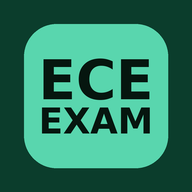
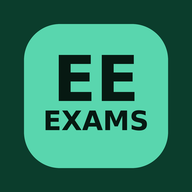
Add files via upload

diff --git a/index.html b/index.html
@@ -2,10 +2,10 @@
 <html lang="en"><head><meta http-equiv="Content-Type" content="text/html; charset=UTF-8">
 
 <meta name="viewport" content="width=device-width, initial-scale=1, viewport-fit=cover">
-<title>ECE Exam</title>
+<title>EE Exams</title>
 <link rel="manifest" href="manifest.webmanifest">
-<link rel="icon" type="image/png" href="icon-192.png?v=2">
-<link rel="apple-touch-icon" href="icon-192.png?v=2">
+<link rel="icon" type="image/png" href="icon-192.png?v=3">
+<link rel="apple-touch-icon" href="icon-192.png?v=3">
 <meta name="theme-color" content="#0b2e2a">
 <meta name="apple-mobile-web-app-capable" content="yes">
 <meta name="mobile-web-app-capable" content="yes">
@@ -174,12 +174,12 @@ input,select,textarea{font-size:16px}
 <body>
 <div id="pendBar" hidden><span id="pendTx"></span><b id="pendGo"></b></div>
 <header class="bar"><div class="wrap">
-    <div class="ttl"><img class="logo" src="icon-192.png?v=2" alt="ECE Exam" width="48" height="48" onerror="this.hidden=true"><h1>Duty Lookup</h1><span id="st" class="st"></span></div>
+    <div class="ttl"><img class="logo" src="icon-192.png?v=3" alt="EE Exams" width="48" height="48" onerror="this.hidden=true"><h1>Duty Lookup</h1><span id="st" class="st"></span></div>
     <p class="sub">Examination duty roster and swap coordination</p>
     <div class="btns">
       <button class="b1" id="bBoard"><span class="lg">📋 See Posted Swaps<br><small>Requests from other staff</small></span><span class="sm">📋<br>Posted</span></button>
       <button class="b2" id="bSwap"><span class="lg">🔄 Swap My Duty<br><small>Post a swap request</small></span><span class="sm">🔄<br>Swap Duty</span></button>
-      <button class="b1" id="bStandby"><span class="lg">🆘 Request Standby Invigilator<br><small>Ask Mr. Sharoze (DEC Member)</small></span><span class="sm">🆘<br>Standby</span></button>
+      <button class="b1" id="bStandby"><span class="lg">🆘 Request Standby Invigilator<br><small>Ask Mr. Sharoze Sohail (DEC Member)</small></span><span class="sm">🆘<br>Standby</span></button>
       <button class="b1" id="bInst" hidden>Install app</button>
     </div>
 </div></header>
@@ -208,6 +208,7 @@ input,select,textarea{font-size:16px}
     <textarea id="csv" class="csv" style="width:100%;margin-top:8px;background:var(--in);color:var(--tx);border:1px solid var(--bd);border-radius:9px;padding:8px" placeholder="…or paste CSV here"></textarea>
     <div class="btns" style="margin-top:8px"><button class="b2" id="load">Load data</button><button class="x" id="sample">Load sample</button><button class="x" id="clear">Clear all</button></div>
     <p id="msg"></p>
+    <div class="btns" style="margin-top:4px"><button class="b2" id="bSbAdm">🆘 Standby requests</button></div>
     <div style="border-top:1px solid var(--bd);padding-top:10px;margin-top:6px"><b>Admin WhatsApp number</b> <small>(swap approval requests go here)</small>
     <div class="btns" style="margin-top:6px"><input id="admPh" type="tel" placeholder="923001234567" style="flex:1;min-width:160px;min-height:42px;padding:8px 10px;border-radius:8px;border:1px solid var(--bd);background:var(--in);color:var(--tx)"><button class="b2" id="admSave">Save number</button></div><p id="admMsg"></p></div>
   </section>
@@ -229,6 +230,7 @@ S4,Hina Malik,923001110004,2026-10-16,09:00,12:00,Biochemistry,Hall A,Invigilato
 const ld=k=>{try{return JSON.parse(localStorage.getItem(k))||[]}catch(e){return[]}};
 const sv=(k,v)=>{try{localStorage.setItem(k,JSON.stringify(v))}catch(e){}};
 let data=ld('duty2'),swaps=ld('swaps2'),isAdmin=false;
+let standbys=[];
 const key=r=>r.id||r.name, slot=r=>r.start+'–'+r.end;
 const pd=d=>{d=String(d||'').trim();let m;
   if(m=d.match(/^(\d{4})[-\/.](\d{1,2})[-\/.](\d{1,2})/))return new Date(+m[1],m[2]-1,+m[3]);
@@ -306,23 +308,38 @@ function needData(){if(!data.length){open('<h2>No data yet</h2><p>Duty data has 
 function post(i,note,quiet){const r=data[i];
   const s={id:Date.now(),k:key(r),name:r.name,phone:r.phone||'',date:r.date,start:r.start,end:r.end,exam:r.exam,venue:r.venue,note:note||'',approved:false};
   swaps.unshift(s);sv('swaps2',swaps);if(!quiet)board();cloud('swaps/'+s.id,s)}
-const SHAROZE_PHONE='';
-const standbyMsg=(me,r)=>`Hi Sharoze, this is ${nt(me)}. I need a standby invigilator for my exam duty on ${fmt(r.date)}, ${slot(r)} (${r.exam}, ${r.venue}). Could you please arrange one? Thank you!`;
-function standbyFlow(){if(needData())return;
-  open(`<h2>🆘 Request standby invigilator</h2><p style="color:var(--mu)">Your request goes to Mr. Sharoze (DEC Member).</p><label>1. Who are you?</label><select id="sy1"><option value="">Select your name</option>${staffOpts()}</select><div id="sy2"></div><div id="sy3"></div>`);
-  $('sy1').onchange=()=>{const k=$('sy1').value;$('sy3').innerHTML='';
-    $('sy2').innerHTML=k?`<label>2. Which duty needs a standby?</label><select id="sy2s"><option value="">Select duty</option>${dutyOpts(k)}</select>`:'';
-    if(k)$('sy2s').onchange=()=>{const v=$('sy2s').value;if(v===''){$('sy3').innerHTML='';return}
-      const r=data[+v],sp=SHAROZE_PHONE||(staff().find(p=>/sharoze/i.test(p.name))||{}).phone||'';
-      $('sy3').innerHTML='<label>3. Send request</label>'+`<div class="row"><b>Sharoze</b> <small>DEC Member</small>${acts({phone:sp},standbyMsg(r.name,r))}</div>`}}}
 const NTFY_TOPIC='ece-swap-bpzp5ysiw';
 function notifyAdmin(o){if(!NTFY_TOPIC)return;
-  try{fetch('https://ntfy.sh/'+NTFY_TOPIC,{method:'POST',body:'New swap request awaiting approval: '+o.name+', '+fmt(o.date)+(o.start?' '+[o.start,o.end].filter(Boolean).join('-'):''),headers:{Title:'Swap request pending',Priority:'high',Tags:'bell',Click:location.origin+location.pathname}}).catch(()=>{})}catch(e){}}
+  try{fetch('https://ntfy.sh/'+NTFY_TOPIC,{method:'POST',body:(o.type==='standby'?'Standby invigilator requested: ':'New swap request awaiting approval: ')+o.name+', '+fmt(o.date)+(o.start?' '+[o.start,o.end].filter(Boolean).join('-'):''),headers:{Title:o.type==='standby'?'Standby request':'Swap request pending',Priority:'high',Tags:'bell',Click:location.origin+location.pathname}}).catch(()=>{})}catch(e){}}
 // Admin WhatsApp number (digits only, with country code, e.g. 923001234567). Leave blank to pick the contact in WhatsApp.
 const ADMIN_PHONE='';
 let adminPh=ADMIN_PHONE;try{adminPh=localStorage.getItem('adminPh')||ADMIN_PHONE}catch(e){}
 const adminMsg=o=>`Hello Admin,\n*${nt(o.name)}*${o.role?' ('+o.role+')':''} has requested a duty swap, pending your approval.\n\n${fmt(o.date)}${o.start?' · '+[o.start,o.end].filter(Boolean).join('–'):''}${o.exam?' · '+o.exam:''}${o.venue?' · '+o.venue:''}\nMobile: ${o.phone}${o.note?'\nNote: '+o.note:''}\n\nApprove in app: ${location.origin+location.pathname}\nThank you.`;
 const adminLink=o=>'https://wa.me/'+ph(adminPh)+'?text='+encodeURIComponent(adminMsg(o));
+const standbyAdminMsg=o=>`Hello Admin,\n*${nt(o.name)}*${o.role?' ('+o.role+')':''} needs a standby invigilator for the duty below.\n\n${fmt(o.date)}${o.start?' · '+[o.start,o.end].filter(Boolean).join('–'):''}${o.exam?' · '+o.exam:''}${o.venue?' · '+o.venue:''}\nMobile: ${o.phone}\n\nThank you.`;
+function standbyFlow(){if(needData())return;
+  open(`<h2>🆘 Request standby invigilator</h2><p style="color:var(--mu)">Your request goes to Mr. Sharoze Sohail (DEC Member).</p><label>1. Who are you?</label><select id="sy1"><option value="">Select your name</option>${staffOpts()}</select><div id="sy2"></div><div id="sy3"></div>`);
+  $('sy1').onchange=()=>{const k=$('sy1').value;$('sy3').innerHTML='';
+    $('sy2').innerHTML=k?`<label>2. Which duty needs a standby?</label><select id="sy2s"><option value="">Select duty</option>${dutyOpts(k)}</select>`:'';
+    if(k)$('sy2s').onchange=()=>{const v=$('sy2s').value;if(v==='')return;
+      const r=data[+v],o={id:Date.now(),type:'standby',k:key(r),name:r.name,phone:r.phone||'',date:r.date,start:r.start,end:r.end,exam:r.exam,venue:r.venue,role:r.role||''};
+      const dup=standbys.some(x=>x.name===o.name&&x.date===o.date&&x.start===o.start&&x.end===o.end);
+      if(!dup){standbys.unshift(o);cloud('standby/'+o.id,o);notifyAdmin(o)}
+      open(`<h2>✅ Standby request ${dup?'already sent':'sent'}</h2><p style="color:var(--mu);font-size:.92rem">Tap below to message the admin, then press <b>Send</b>.</p><div style="background:var(--in);border:1px solid var(--bd);border-radius:10px;padding:10px 12px;margin:8px 0 12px;font-size:.85rem;white-space:pre-wrap;line-height:1.45">${esc(standbyAdminMsg(o).replace(/\*/g,''))}</div><a class="b wa" target="_blank" rel="noopener" href="https://wa.me/${ph(adminPh)}?text=${encodeURIComponent(standbyAdminMsg(o))}" style="width:100%">💬 Notify admin on WhatsApp</a>`)}}}
+const standbyAllocMsg=(p,o)=>`Hi ${nt(p.name)}, you have been allocated as standby invigilator on ${fmt(o.date)}, ${slot(o)} (${o.exam}, ${o.venue}) in place of ${nt(o.name)}. Please confirm. Thank you!`;
+function standbyBoard(){
+  updPend();
+  const L=standbys.slice().sort((a,b)=>((b.status!=='allocated')-(a.status!=='allocated'))||b.id-a.id);
+  const row=o=>{const when=[fmt(o.date),[o.start,o.end].filter(Boolean).join('–'),o.exam,o.venue].filter(Boolean).map(esc).join(' · ');
+    if(o.status==='allocated'&&o.standby)return `<div class="row" style="display:block"><b>${esc(o.name)}</b> <small>${esc(o.role||'')}</small><div style="font-size:.88rem;color:var(--mu)">${when}</div><div style="margin:6px 0">✅ Standby: <b>${esc(o.standby.name)}</b></div>${acts(o.standby,standbyAllocMsg(o.standby,o))}</div>`;
+    const fr=free(o).filter(p=>key(p)!==o.k);
+    return `<div class="row" style="display:block"><b>${esc(o.name)}</b> <small>${esc(o.role||'')}</small> <span style="color:var(--gold);font-weight:800">● Pending</span><div style="font-size:.88rem;color:var(--mu)">${when}</div><div style="margin-top:6px"><select data-sel="${o.id}"><option value="">Select standby invigilator</option>${fr.map(p=>`<option value="${esc(key(p))}">${esc(p.name)}</option>`).join('')}</select> <button class="b b2" data-al="${o.id}">Allocate</button></div></div>`};
+  const M=$('md');
+  open('<h2>🆘 Standby Requests</h2>'+(L.length?L.map(row).join(''):'<p style="color:var(--mu)">No standby requests yet.</p>')+'<p style="font-size:.78rem;color:var(--mu)">Only staff free at that time are listed.</p>');
+  M.querySelectorAll('[data-al]').forEach(b=>b.onclick=()=>{if(!isAdmin)return;
+    const o=standbys.find(x=>x.id==b.dataset.al),sel=M.querySelector('[data-sel="'+b.dataset.al+'"]'),p=o&&staff().find(x=>key(x)===sel.value);
+    if(!p){sel.focus();return}
+    o.status='allocated';o.standby={name:p.name,phone:p.phone||'',k:key(p)};o.allocatedAt=Date.now();cloud('standby/'+o.id,o);standbyBoard()})}
 function sentScreen(o,dup){
   open(`<h2>✅ Request ${dup?'already posted':'saved'}</h2><p style="color:var(--mu);font-size:.92rem">It will be listed once the admin approves. Tap below to message the admin, then press <b>Send</b>.</p><div style="background:var(--in);border:1px solid var(--bd);border-radius:10px;padding:10px 12px;margin:8px 0 12px;font-size:.85rem;white-space:pre-wrap;line-height:1.45">${esc(adminMsg(o).replace(/\*/g,''))}</div><a class="b wa" id="nwa" target="_blank" rel="noopener" href="${esc(adminLink(o))}" style="width:100%">💬 Notify admin on WhatsApp</a>`)}
 function postForm(pre){
@@ -367,10 +384,10 @@ function swapRow(s){
   <div class="rp${reps.length?'':' none'}">${reps.length?`<b>💬 ${reps.length} ${reps.length>1?'replies':'reply'}</b>`+reps.map(x=>bubble(s,x)).join(''):'No replies yet'}</div>
   <div class="rf" id="rf${s.id}" hidden><select aria-label="Your name"><option value="">Select your name</option>${op}</select><textarea rows="2" maxlength="500" placeholder="Write your reply here…"></textarea><button class="b b2" data-ps="${s.id}">Post reply</button></div></div>`;
   return pend?h.split('\n  <div class="rp')[0]+'</div>':h}
-function updPend(){const n=swaps.filter(s=>s.approved===false).length;
-  $('pendBar').hidden=n<1;$('bBoard').classList.toggle('blink',isAdmin&&n>0);
-  if(n&&isAdmin&&navigator.vibrate&&!updPend.v){updPend.v=1;try{navigator.vibrate([120,60,120])}catch(e){}}
-  if(n){$('pendTx').textContent=n+' swap request'+(n>1?'s':'')+' pending approval';$('pendGo').textContent=isAdmin?'Review ›':'Admin login ›'}}
+function updPend(){const n=swaps.filter(s=>s.approved===false).length,m=standbys.filter(x=>x.status!=='allocated').length;
+  $('pendBar').hidden=n+m<1;$('bBoard').classList.toggle('blink',isAdmin&&n>0);
+  if(n+m&&isAdmin&&navigator.vibrate&&!updPend.v){updPend.v=1;try{navigator.vibrate([120,60,120])}catch(e){}}
+  if(n+m){$('pendTx').textContent=[n?n+' swap request'+(n>1?'s':''):'',m?m+' standby request'+(m>1?'s':''):''].filter(Boolean).join(' · ')+' pending'+(n?' approval':'');$('pendGo').textContent=isAdmin?'Review ›':'Admin login ›'}}
 function board(){
   updPend();
   const vis=(isAdmin?swaps:swaps.filter(s=>s.approved!==false)).slice().sort((a,b)=>(b.approved===false)-(a.approved===false));
@@ -417,7 +434,7 @@ document.addEventListener('click',e=>{const b=e.target.closest('.cp');if(b&&navi
 let tm='auto';try{tm=localStorage.getItem('theme')||'auto'}catch(e){}
 function setTheme(m){tm=m;if(m==='auto')document.documentElement.removeAttribute('data-theme');else document.documentElement.setAttribute('data-theme',m);$('bTheme').textContent='Theme: '+m[0].toUpperCase()+m.slice(1);try{localStorage.setItem('theme',m)}catch(e){}}
 $('bTheme').onclick=()=>setTheme({auto:'light',light:'dark',dark:'auto'}[tm]);setTheme(tm);
-$('pendBar').onclick=()=>isAdmin?board():$('adminBtn').click();$('bBoard').onclick=board;$('bSwap').onclick=()=>postForm();$('bStandby').onclick=standbyFlow;
+$('pendBar').onclick=()=>isAdmin?(swaps.some(s=>s.approved===false)?board():standbyBoard()):$('adminBtn').click();$('bBoard').onclick=board;$('bSwap').onclick=()=>postForm();$('bStandby').onclick=standbyFlow;$('bSbAdm').onclick=standbyBoard;
 
[1 lines of base64/hex data omitted]
 async function sha(t){const b=await crypto.subtle.digest('SHA-256',new TextEncoder().encode(t));return [...new Uint8Array(b)].map(x=>x.toString(16).padStart(2,'0')).join('')}
@@ -437,6 +454,8 @@ try{if(window.firebase){
   fbDb.ref('.info/connected').on('value',x=>{fbOK=!!x.val();$('st').textContent=fbOK?'● Live':''});
   fbDb.ref(FBROOT+'roster').on('value',x=>{const v=x.val();data=v?(Array.isArray(v)?v:Object.values(v)).filter(Boolean):[];sv('duty2',data);fillFilters();render()},e=>console.warn(e));
   fbDb.ref(FBROOT+'adminPhone').on('value',x=>{const v=x.val();if(v){adminPh=String(v);try{localStorage.setItem('adminPh',adminPh)}catch(e){};if($('admPh'))$('admPh').value=adminPh}},e=>console.warn(e));
+  fbDb.ref(FBROOT+'standby').on('value',x=>{const v=x.val()||{};standbys=Object.values(v).sort((a,b)=>b.id-a.id);updPend();
+    if($('ov').classList.contains('on')&&$('md').innerHTML.includes('Standby Requests')&&![...$('md').querySelectorAll('select')].some(t=>t.value))standbyBoard()},e=>console.warn(e));
   fbDb.ref(FBROOT+'swaps').on('value',x=>{const v=x.val()||{};swaps=Object.values(v).sort((a,b)=>b.id-a.id);sv('swaps2',swaps);updPend();
     if($('ov').classList.contains('on')&&$('md').innerHTML.includes('Posted Swaps')&&![...$('md').querySelectorAll('textarea')].some(t=>t.value))board()},e=>console.warn(e));
 }}catch(e){console.warn('Firebase unavailable, using local mode',e)}
